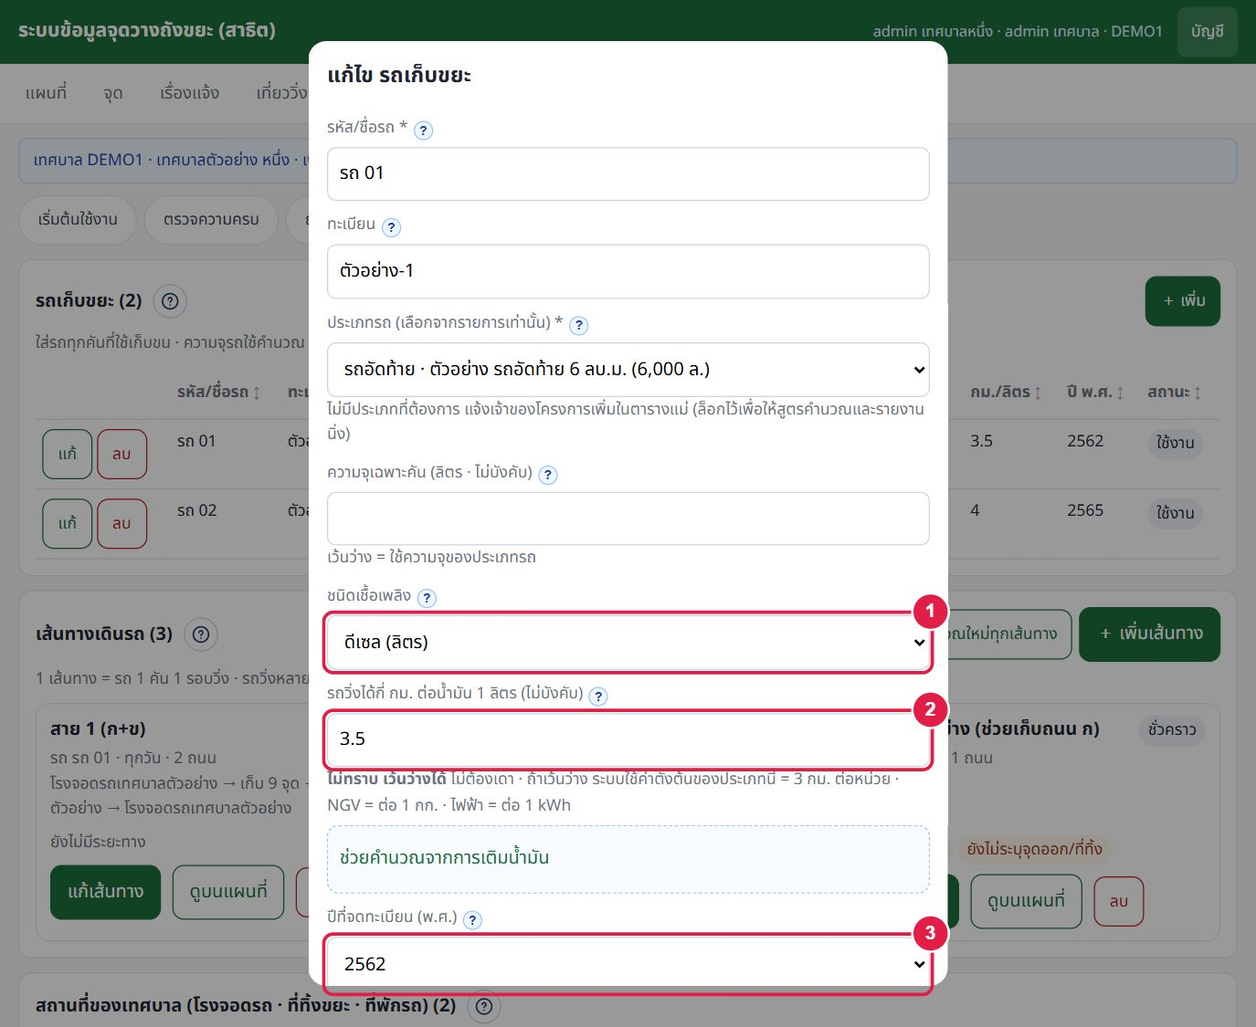
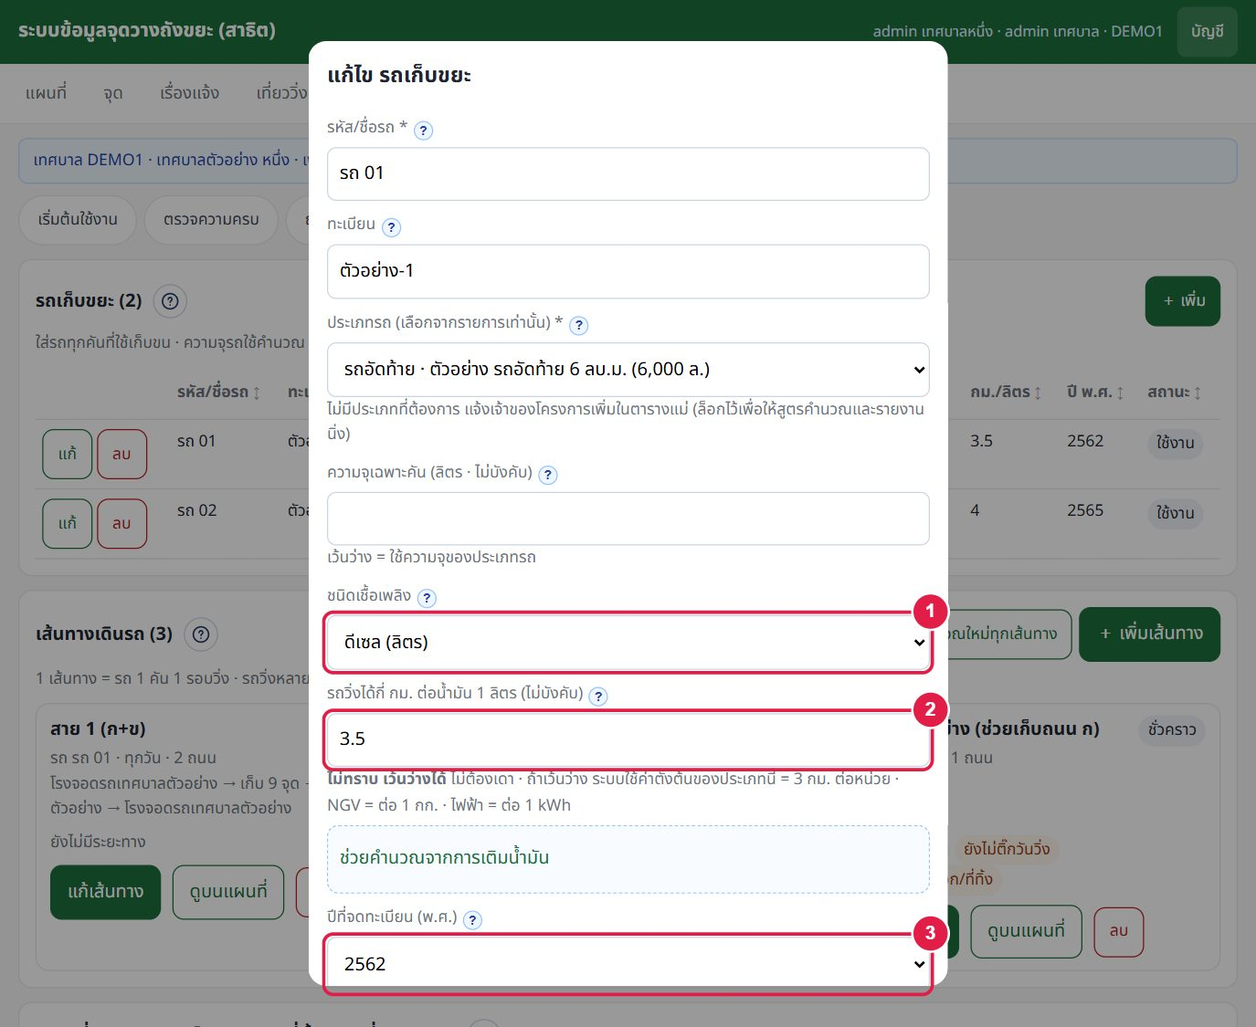
DEC-136: route volume counts only selected stops (pairs with sql/032), warnings for unselected stops, guide refresh

Changed region(s): [[0.7331, 0.8089, 0.9164, 0.9333], [0.0305, 0.9644, 0.3971, 1.0]]

diff --git a/index.html b/index.html
@@ -433,6 +433,7 @@ const DemoBackend = () => {
   for (let i = 1; i <= 2; i++) { const p = mkPlace(m1, `จุดตัวอย่าง ค-${i}`, r3, i, null, 15.02 + i * 0.001, 100.02 + i * 0.001); add('bin', { municipality_id: m1.id, place_id: p.id, bin_type_id: bt240.id, amount: 1 }); }
   for (let i = 1; i <= 2; i++) { const p = mkPlace(m2, `จุดตัวอย่าง ง-${i}`, r4, i, null, 15.1 + i * 0.001, 100.1 + i * 0.001); add('bin', { municipality_id: m2.id, place_id: p.id, bin_type_id: bt120.id, amount: 2 }); }
 
+  for (const rt of D.route.filter(x => x.route_kind !== 'temporary')) { let k = 0; for (const rr of D.route_road.filter(x => x.route_id === rt.id).sort((a, b) => a.seq - b.seq)) for (const p of D.place.filter(p => p.road_id === rr.road_id).sort((a, b) => String(a.place_code).localeCompare(String(b.place_code), 'th'))) add('route_stop', { municipality_id: rt.municipality_id, route_id: rt.id, place_id: p.id, seq: ++k }); }   // DEC-136
   let me = null;
   const byId = (t, id) => D[t].find(r => r.id === id);
   const tier = L => { const t = D.capacity_tier.slice().sort((a, b) => a.sort_order - b.sort_order).find(t => L >= t.min_liters && (t.max_liters == null || L <= t.max_liters)); return t || {}; };
@@ -449,7 +450,7 @@ const DemoBackend = () => {
     v_trip: () => D.trip_log.map(l => { const t = byId('truck', l.truck_id), tt = t.truck_type_id ? byId('truck_type', t.truck_type_id) : null; return { ...l, truck_code: t.code, plate_no: t.plate_no, fuel_type: t.fuel_type || null, truck_category: tt ? tt.category : null, route_name: l.route_id ? (byId('route', l.route_id) || {}).name : null, destination_name: l.destination_site_id ? (byId('site', l.destination_site_id) || {}).name : null, km: l.odo_start != null && l.odo_end != null ? l.odo_end - l.odo_start : null, created_by_name: (byId('app_user', l.created_by) || {}).display_name || null }; }),
     v_fuel_month: () => D.fuel_log.map(f => { const t = byId('truck', f.truck_id); const km = f.odo_start != null && f.odo_end != null ? f.odo_end - f.odo_start : null; return { ...f, truck_code: t.code, plate_no: t.plate_no, fuel_type: t.fuel_type || null, fuel_economy: t.fuel_economy || null, km_actual: km, economy_actual: km != null && f.fuel_qty > 0 ? Math.round(100 * km / f.fuel_qty) / 100 : null }; }),
     v_route_stop: () => D.route_stop.map(rs => { const p = views.v_place().find(x => x.id === rs.place_id) || {}; return { route_id: rs.route_id, municipality_id: rs.municipality_id, seq: rs.seq, note: rs.note || null, place_id: rs.place_id, place_code: p.place_code, place_name: p.name, road_name: p.road_name, lat: p.lat, lng: p.lng, total_bins: p.total_bins, total_liters: p.total_liters, tier_color: p.tier_color }; }),
-    v_route_summary: () => D.route.map(rt => { const t = byId('truck', rt.truck_id), ttp = t.truck_type_id ? byId('truck_type', t.truck_type_id) : null, cap = t.capacity_liters || (ttp && ttp.capacity_liters) || null; const vp = views.v_route_place().filter(x => x.route_id === rt.id); const L = vp.reduce((s, x) => s + (x.total_liters || 0), 0); const kg = parseFloat((D.app_setting.find(s => s.key === 'kg_per_liter') || {}).value); const myRoads = D.route_road.filter(x => x.route_id === rt.id).map(x => x.road_id); const shared = myRoads.filter(rid => D.route_road.some(x => x.road_id === rid && x.route_id !== rt.id && byId('route', x.route_id).status === 'active')).length; return { route_id: rt.id, municipality_id: rt.municipality_id, municipality_code: byId('municipality', rt.municipality_id).code, route_name: rt.name, route_kind: rt.route_kind || 'regular', valid_from: rt.valid_from || null, valid_to: rt.valid_to || null, shared_roads: shared, schedule_note: rt.schedule_note, status: rt.status, truck_id: t.id, truck_code: t.code, plate_no: t.plate_no, truck_capacity_liters: cap, roads: new Set(vp.map(x => x.road_id)).size, places: vp.filter(x => x.place_id).length, total_bins: vp.reduce((s, x) => s + (x.total_bins || 0), 0), total_liters: L, load_pct: cap ? Math.round(1000 * L / cap) / 10 : null, est_weight_kg: isNaN(kg) ? null : Math.round(L * kg * 10) / 10,
+    v_route_summary: () => D.route.map(rt => { const t = byId('truck', rt.truck_id), ttp = t.truck_type_id ? byId('truck_type', t.truck_type_id) : null, cap = t.capacity_liters || (ttp && ttp.capacity_liters) || null; const vp0 = views.v_route_place().filter(x => x.route_id === rt.id), vp = vp0.filter(x => x.place_id && D.route_stop.some(rs => rs.route_id === rt.id && rs.place_id === x.place_id)), L = vp.reduce((s, x) => s + (x.total_liters || 0), 0); /* DEC-136 นับเฉพาะจุดที่เลือก */ const kg = parseFloat((D.app_setting.find(s => s.key === 'kg_per_liter') || {}).value); const myRoads = D.route_road.filter(x => x.route_id === rt.id).map(x => x.road_id); const shared = myRoads.filter(rid => D.route_road.some(x => x.road_id === rid && x.route_id !== rt.id && byId('route', x.route_id).status === 'active')).length; return { route_id: rt.id, municipality_id: rt.municipality_id, municipality_code: byId('municipality', rt.municipality_id).code, route_name: rt.name, route_kind: rt.route_kind || 'regular', valid_from: rt.valid_from || null, valid_to: rt.valid_to || null, shared_roads: shared, schedule_note: rt.schedule_note, status: rt.status, truck_id: t.id, truck_code: t.code, plate_no: t.plate_no, truck_capacity_liters: cap, roads: new Set(vp0.map(x => x.road_id)).size, places: vp.filter(x => x.place_id).length, places_on_roads: vp0.filter(x => x.place_id).length, liters_on_roads: vp0.reduce((s, x) => s + (x.total_liters || 0), 0), total_bins: vp.reduce((s, x) => s + (x.total_bins || 0), 0), total_liters: L, load_pct: cap ? Math.round(1000 * L / cap) / 10 : null, est_weight_kg: isNaN(kg) ? null : Math.round(L * kg * 10) / 10,
       ...(() => { const sn = id => (D.site.find(x => x.id === id) || {}).name || null; const dpw = (rt.run_days || []).length; return { round_no: rt.round_no || null, run_days: rt.run_days || null, days_per_week: dpw, start_site_id: rt.start_site_id || null, start_site_name: sn(rt.start_site_id), dump_site_id: rt.dump_site_id || null, dump_site_name: sn(rt.dump_site_id), end_site_id: rt.end_site_id || rt.start_site_id || null, end_site_name: sn(rt.end_site_id) || sn(rt.start_site_id),
         path_distance_m: rt.path_distance_m ?? null, path_duration_s: rt.path_duration_s ?? null, path_at: rt.path_at || null, leg_start_m: rt.leg_start_m ?? null, leg_start_s: rt.leg_start_s ?? null, leg_collect_m: rt.leg_collect_m ?? null, leg_collect_s: rt.leg_collect_s ?? null, leg_dump_m: rt.leg_dump_m ?? null, leg_dump_s: rt.leg_dump_s ?? null, leg_end_m: rt.leg_end_m ?? null, leg_end_s: rt.leg_end_s ?? null,
         km_per_week: rt.path_distance_m ? Math.round(rt.path_distance_m / 100 * dpw) / 10 : null }; })() }; })
@@ -2019,8 +2020,8 @@ async function pageRoutes(view) {
   // DEC-091: ถ้ามีลำดับจุดที่ admin กำหนด ใช้ลำดับนั้น (เส้นเปิด จุดแรก→จุดสุดท้าย) · ไม่มี = เรียงตามถนน/รหัสแบบเดิม
   const custom = await api.list('v_route_stop', { eq: { route_id: sel }, order: ['seq'] });
   const byRoad = (await api.list('v_route_place', { eq: { route_id: sel } })).filter(x => x.place_id).sort((a, b) => a.road_seq - b.road_seq || String(a.place_code).localeCompare(String(b.place_code), 'th'));
-  const stops = custom.length ? custom.map(c => ({ ...c, custom: true })) : byRoad.map((x, i) => ({ ...x, seq: i + 1 }));
-  const extra = custom.length ? byRoad.filter(x => !custom.some(c => c.place_id === x.place_id)) : [];   // DEC-135 จุดบนถนนของเส้นทางที่ไม่อยู่ในลำดับที่ admin กำหนด
+  const stops = custom.map(c => ({ ...c, custom: true }));   // DEC-136 นับเฉพาะจุดที่เลือกเข้าลำดับ
+  const extra = byRoad.filter(x => !custom.some(c => c.place_id === x.place_id));   // จุดบนถนนของเส้นทางที่ยังไม่ได้เลือก
   const [routeRow] = await api.list('route', { eq: { id: sel } }); const path = routeRow && routeRow.path && routeRow.path.coordinates ? routeRow.path : null;
   const adj = S._adj && S._adj.routeId === sel && isAdmin() ? S._adj : null; if (S._adj && !adj) S._adj = null;   // DEC-110 โหมดปรับเส้นทาง
   if (isAdmin() && routeRow && !adj) $('#viaBtn').innerHTML = `<a class="btn secondary small" style="text-decoration:none" href="#route-edit/${sel}">แก้เส้นทาง</a>${'via' in routeRow ? `<button class="secondary small" onclick="viaStart('${sel}')">ปรับเส้นทาง (จุดแวะ)${(routeRow.via || []).length + (routeRow.via_back || []).length ? ` · ${(routeRow.via || []).length + (routeRow.via_back || []).length} จุด` : ''}</button>` : ''}`;
@@ -2062,12 +2063,12 @@ async function pageRoutes(view) {
 const kgOfL = l => { const k = parseFloat(setting('kg_per_liter')); return k > 0 ? l * k : null; };
 function rtStopsCard(stops, extra, rid) {
   const row = (x, no) => `<tr${no === '–' ? ' style="color:#6b7280"' : ''}><td>${no}</td><td><a href="#place/${x.place_id}">${esc(x.place_code)}</a></td><td>${esc(x.place_name || '')}</td><td>${esc(x.road_name || '')}</td><td style="text-align:right">${fmt(x.total_bins)}</td><td style="text-align:right">${fmt(x.total_liters)}</td><td style="text-align:right">${kgOfL(+x.total_liters || 0) != null ? fmt(Math.round(kgOfL(+x.total_liters || 0))) : '-'}</td></tr>`;
-  const all = [...stops, ...extra], L0 = sum(all, 'total_liters');
-  return `<div class="card" style="margin-top:12px"><h4 style="margin:0 0 6px">จุดในเส้นทาง (${fmt(all.length)} จุด) · เลขตรงกับหมุดบนแผนที่</h4>
-    ${extra.length ? `<div class="banner warn" style="margin:6px 0"><b>${fmt(extra.length)} จุดอยู่บนถนนของเส้นทางนี้ แต่ไม่อยู่ในลำดับที่ admin กำหนด</b> (หมุดสีเทา ขีด –) · เส้นบนแผนที่และระยะทางคิดตามลำดับ ${fmt(stops.length)} จุดเท่านั้น · ถ้ารถเก็บจุดเหล่านี้ด้วย ให้ admin เปิด "ลำดับจุด / เส้นถนน" แล้วเพิ่มเข้าลำดับ จากนั้นกด "ลากเส้นตามถนน"${isAdmin() ? ` <a class="btn small secondary" style="text-decoration:none;margin-left:6px" href="#route-edit/${rid}">แก้เส้นทาง</a>` : ''}</div>` : ''}
+  const all = [...stops, ...extra], L0 = sum(stops, 'total_liters');
+  return `<div class="card" style="margin-top:12px"><h4 style="margin:0 0 6px">จุดในเส้นทาง (เลือกแล้ว ${fmt(stops.length)} จุด${extra.length ? ` · ยังไม่เลือก ${fmt(extra.length)} จุด` : ''}) · เลขตรงกับหมุดบนแผนที่</h4>
+    ${extra.length ? `<div class="banner ${stops.length ? 'info' : 'warn'}" style="margin:6px 0"><b>${stops.length ? `เลือกจุดเข้าเส้นทางแล้ว ${fmt(stops.length)} จาก ${fmt(all.length)} จุดบนถนน` : `ยังไม่ได้เลือกจุดเข้าเส้นทาง (บนถนนมี ${fmt(all.length)} จุด)`}</b> · ปริมาณขยะ ความจุรถ ระยะทาง และคาร์บอนของเส้นทาง <b>นับเฉพาะจุดที่เลือก</b> (หมุดมีเลข) · หมุดสีเทาขีด – = ยังไม่ได้เลือก · ถ้ารถเก็บจุดเหล่านั้นด้วย ให้ admin เปิด "แก้เส้นทาง" → "จัดลำดับจุด" → เพิ่มเข้าลำดับ แล้วกด "ลากเส้นตามถนน"${isAdmin() ? ` <a class="btn small secondary" style="text-decoration:none;margin-left:6px" href="#route-edit/${rid}">แก้เส้นทาง</a>` : ''}</div>` : ''}
     <div style="overflow:auto"><table><thead><tr><th>#</th><th>รหัสจุด</th><th>ชื่อ</th><th>ถนน</th><th style="text-align:right">ใบ</th><th style="text-align:right">ลิตร</th><th style="text-align:right">≈ กก.</th></tr></thead>
     <tbody>${stops.map(x => row(x, x.seq)).join('')}${extra.map(x => row(x, '–')).join('')}</tbody>
-    <tfoot><tr><td colspan="4"><b>รวม</b></td><td style="text-align:right"><b>${fmt(sum(all, 'total_bins'))}</b></td><td style="text-align:right"><b>${fmt(L0)}</b></td><td style="text-align:right"><b>${kgOfL(L0) != null ? fmt(Math.round(kgOfL(L0))) : '-'}</b></td></tr></tfoot></table></div>
+    <tfoot><tr><td colspan="4"><b>รวมเฉพาะจุดที่เลือก (${fmt(stops.length)} จุด)</b></td><td style="text-align:right"><b>${fmt(sum(stops, 'total_bins'))}</b></td><td style="text-align:right"><b>${fmt(L0)}</b></td><td style="text-align:right"><b>${kgOfL(L0) != null ? fmt(Math.round(kgOfL(L0))) : '-'}</b></td></tr></tfoot></table></div>
     <div class="muted" style="margin-top:4px">≈ กก. = ลิตร × ${esc(setting('kg_per_liter') || '-')} กก./ลิตร (ค่ากลางของระบบ เป็นความจุที่ถังรองรับได้ ไม่ใช่น้ำหนักที่ชั่งจริง)</div></div>`;
 }
 // DEC-135 รายเดือน: ขยะ เที่ยวที่นำไปกำจัด และการปล่อยก๊าซ ของเส้นทางที่เลือก + ภาพรวมทุกเส้นทางของเทศบาล
@@ -2310,6 +2311,8 @@ async function adminCheck(mid) {
       { sev: 'info', l: 'อยู่ในเส้นทางอย่างน้อย 1 เส้น', why: 'รถที่ไม่มีเส้นทางจะไม่ถูกนับระยะทางและการปล่อย (ถ้าเป็นรถสำรอง ไม่ต้องแก้)', of: trucks, bad: trucks.filter(t => !used.has(t.id)).map(t => ({ ...T(t), a: lnk('#route-edit/new', 'สร้างเส้นทาง') })) }] },
     { title: 'เส้นทางเดินรถ', n: routes.length, empty: !routes.length && trucks.length ? 'ยังไม่มีเส้นทาง ระบบจึงคำนวณระยะทางและการปล่อยของรถไม่ได้' : '', emptyA: lnk('#route-edit/new', '＋ เพิ่มเส้นทาง'), checks: [
       { sev: 'must', l: 'เลือกถนนในเส้นทาง', why: 'ไม่มีถนน = ไม่มีจุดเก็บขยะในเส้นทาง', of: routes, bad: routes.filter(r => !+r.roads).map(R) },
+      ...(routes.some(r => r.places_on_roads !== undefined) ? [{ sev: 'must', l: 'เลือกจุดเข้าเส้นทาง (จัดลำดับจุด)', why: 'ปริมาณขยะ ความจุรถ ระยะทาง และคาร์บอน นับเฉพาะจุดที่เลือก · ยังไม่เลือก = 0', of: routes, bad: routes.filter(r => +r.roads && !+r.places).map(R) },
+        { sev: 'should', l: 'เลือกครบทุกจุดบนถนนของเส้นทาง', why: 'มีจุดบนถนนที่ยังไม่ได้เลือก เช่น จุดที่ผู้ปฏิบัติงานเพิ่มภายหลัง · ถ้ารถไม่ได้เก็บจุดนั้นจริง ไม่ต้องแก้', of: routes, bad: routes.filter(r => +r.places && +r.places_on_roads > +r.places).map(r => ({ ...R(r), t: R(r).t + ` <span class="muted">· เลือก ${fmt(r.places)} จาก ${fmt(r.places_on_roads)} จุด</span>` })) }] : []),   // DEC-136
       { sev: 'must', l: 'ติ๊กวันที่วิ่ง', why: 'ไม่ติ๊ก = นับ 0 รอบ การปล่อยของเส้นทางเป็น 0', of: routes, bad: routes.filter(r => !+r.days_per_week).map(R) },
       { sev: 'must', l: 'มีระยะทาง (ลากเส้นตามถนนแล้ว)', why: 'ไม่มีระยะทาง = คำนวณเชื้อเพลิงและ kgCO2e ของเส้นทางไม่ได้ · แก้ที่ขั้นที่ 3 "บันทึกและลากเส้นตามถนน"', of: routes, bad: routes.filter(r => !+r.path_distance_m).map(R) },
       { sev: 'should', l: 'ระบุที่ทิ้งขยะ', why: 'ไม่ระบุ = ระยะทางนับเฉพาะช่วงเก็บขยะ ไม่รวมขาไปทิ้ง', of: routes, bad: routes.filter(r => !r.dump_site_id).map(R) }] },
@@ -2670,7 +2673,7 @@ async function routeCards(mid) {
   const raw = await api.list('route', { eq: { municipality_id: mid } });
   rows.sort((a, b) => String(a.truck_code).localeCompare(String(b.truck_code), 'th') || (a.round_no || 99) - (b.round_no || 99) || String(a.route_name).localeCompare(String(b.route_name), 'th'));
   const card = r => { const w = raw.find(x => x.id === r.route_id) || {}; const miss = [];
-    if (!+r.roads) miss.push('ยังไม่เลือกถนน'); if (r.run_days !== undefined && !r.days_per_week) miss.push('ยังไม่ติ๊กวันวิ่ง'); if (r.run_days !== undefined && !r.start_site_id && !r.dump_site_id) miss.push('ยังไม่ระบุจุดออก/ที่ทิ้ง');
+    if (!+r.roads) miss.push('ยังไม่เลือกถนน'); else if (r.places_on_roads !== undefined && !+r.places && +r.places_on_roads) miss.push('ยังไม่เลือกจุด'); else if (r.places_on_roads !== undefined && +r.places_on_roads > +r.places) miss.push(`เลือกจุด ${fmt(r.places)} จาก ${fmt(r.places_on_roads)}`); /* DEC-136 */ if (r.run_days !== undefined && !r.days_per_week) miss.push('ยังไม่ติ๊กวันวิ่ง'); if (r.run_days !== undefined && !r.start_site_id && !r.dump_site_id) miss.push('ยังไม่ระบุจุดออก/ที่ทิ้ง');
     const flow = [r.start_site_name, `เก็บ ${fmt(r.places)} จุด`, r.dump_site_name, r.end_site_name].filter(Boolean).map(esc).join(' → ');
     const mode = w.return_mode ? (RETURN_MODES.find(m => m[0] === w.return_mode) || [, ''])[1].split(':')[0].split(' (')[0] : '';
     return `<div class="rcard${r.status !== 'active' ? ' off' : ''}"><div class="row" style="justify-content:space-between;align-items:flex-start;gap:6px"><b style="font-size:16px">${esc(r.route_name)}</b><span class="row" style="gap:4px">${r.round_no ? `<span class="pill">รอบ ${r.round_no}</span>` : ''}${r.route_kind === 'temporary' ? '<span class="pill">ชั่วคราว</span>' : ''}${r.status !== 'active' ? '<span class="pill" style="background:#fee2e2">ปิด</span>' : ''}</span></div>
@@ -3510,10 +3513,10 @@ const GUIDE_ADM = [
       `${GN(1)} ถนนที่เลือกแล้ว เรียงตามลำดับที่รถวิ่ง ปรับด้วย ↑ ↓ · เอาออกด้วยปุ่มลบ`,
       `${GN(2)} เลือกถนนจากรายการแล้วกด "เพิ่ม"`,
       `${GN(3)} <b>"บันทึกลำดับ"</b>`],
-      done: 'ทุกจุดบนถนนที่เลือกนับเข้าเส้นทางนี้อัตโนมัติ รวมจุดที่ผู้ปฏิบัติงานเพิ่มภายหลัง' },
+      done: 'จุดบนถนนที่เลือกจะขึ้นให้เลือกใน "จัดลำดับจุด" · <b>ปริมาณขยะ ความจุรถ ระยะทาง และคาร์บอนของเส้นทาง นับเฉพาะจุดที่อยู่ในลำดับ</b> · จุดที่ผู้ปฏิบัติงานเพิ่มภายหลังต้องเพิ่มเข้าลำดับเอง (แท็บ "ตรวจความครบ" จะเตือน)' },
     { img: 'a11', lead: 'หน้าต่าง "จัดลำดับจุด"', steps: [
       `${GN(1)} <b>"จัดอัตโนมัติ"</b> เรียงแบบจุดใกล้สุดถัดไป แล้วปรับด้วย ↑ ↓ ให้ตรงกับที่รถวิ่งจริง · "สลับทิศ" กลับหัวท้าย`,
-      `${GN(2)} รายการจุดตามลำดับ · "เอาออก" = ไม่นับจุดนั้นในรอบนี้`,
+      `${GN(2)} รายการจุดตามลำดับ · "เอาออก" = ไม่นับจุดนั้นในรอบนี้ (ไม่นับทั้งปริมาณขยะและระยะทาง) · จุดที่ยังไม่อยู่ในรายการ เลือกจาก "เพิ่มจุดเข้าลำดับ"`,
       `${GN(3)} <b>"บันทึกลำดับ"</b>`,
       `${GN(4)} <b>"ลากเส้นตามถนน"</b> บันทึกลำดับแล้วคำนวณเส้นทันที`] }] },
   { id: 'a6', title: 'แก้เส้นทาง ขั้นที่ 3–4: ขากลับ แผนที่ และบันทึก', intro: 'รถไม่จำเป็นต้องกลับทางเดิม ระบบคำนวณขากลับให้เลือก 3 แบบ และเทียบระยะทางให้ก่อนตัดสินใจ',
@@ -3584,7 +3587,7 @@ const GUIDE_ADM = [
       `${GN(5)} เรื่องที่แจ้งที่ <b>ตำแหน่งที่ไม่มีจุดวางถัง</b>: ลิงก์ "ดูตำแหน่ง" และปุ่ม <b>"สร้างเป็นจุดวางถังใหม่"</b> (เติมพิกัดให้)`],
       done: 'ผู้แจ้งหลายคนเรื่องเดียวกันที่จุดเดียวกันภายใน 3 วัน ระบบรวมเป็นเรื่องเดียวและนับจำนวนผู้แจ้ง · เบอร์โทรลบอัตโนมัติเมื่อปิดเรื่องครบ 1 ปี · ปุ่ม "รายงานสรุป" พิมพ์ได้ (ไม่มีเบอร์โทร)' }] }
 ];
-const GIMG = (f, dir = 'rec') => `<a href="help/${dir}/${f}.jpg?v=6" target="_blank" rel="noopener" title="แตะเพื่อดูภาพขนาดเต็ม"><img src="help/${dir}/${f}.jpg?v=6" alt="ภาพหน้าจอประกอบ" loading="lazy" ${dir === 'rec' ? 'width="390" height="844"' : ''} class="gimg"></a>`;
+const GIMG = (f, dir = 'rec') => `<a href="help/${dir}/${f}.jpg?v=7" target="_blank" rel="noopener" title="แตะเพื่อดูภาพขนาดเต็ม"><img src="help/${dir}/${f}.jpg?v=7" alt="ภาพหน้าจอประกอบ" loading="lazy" ${dir === 'rec' ? 'width="390" height="844"' : ''} class="gimg"></a>`;
 const GUIDE_CSS = `<style>.gn{display:inline-block;min-width:26px;height:26px;line-height:26px;border-radius:50%;background:#E11D48;color:#fff;font-weight:700;text-align:center;font-size:15px;margin-right:4px}
   .gpart{display:grid;grid-template-columns:minmax(0,340px) 1fr;gap:18px;align-items:start;margin-top:14px}.gpart.wide{grid-template-columns:1fr;gap:8px}.gpart.wide .gimg{max-width:860px}.gpart ol{margin:6px 0;padding-left:0;list-style:none}.gpart li{margin:8px 0;line-height:1.7}
   .gimg{width:100%;height:auto;border:1px solid var(--line);border-radius:12px;display:block}.gdone{background:#ecfdf5;border:1px solid #a7f3d0;border-radius:8px;padding:8px 10px;margin-top:8px;line-height:1.7}
